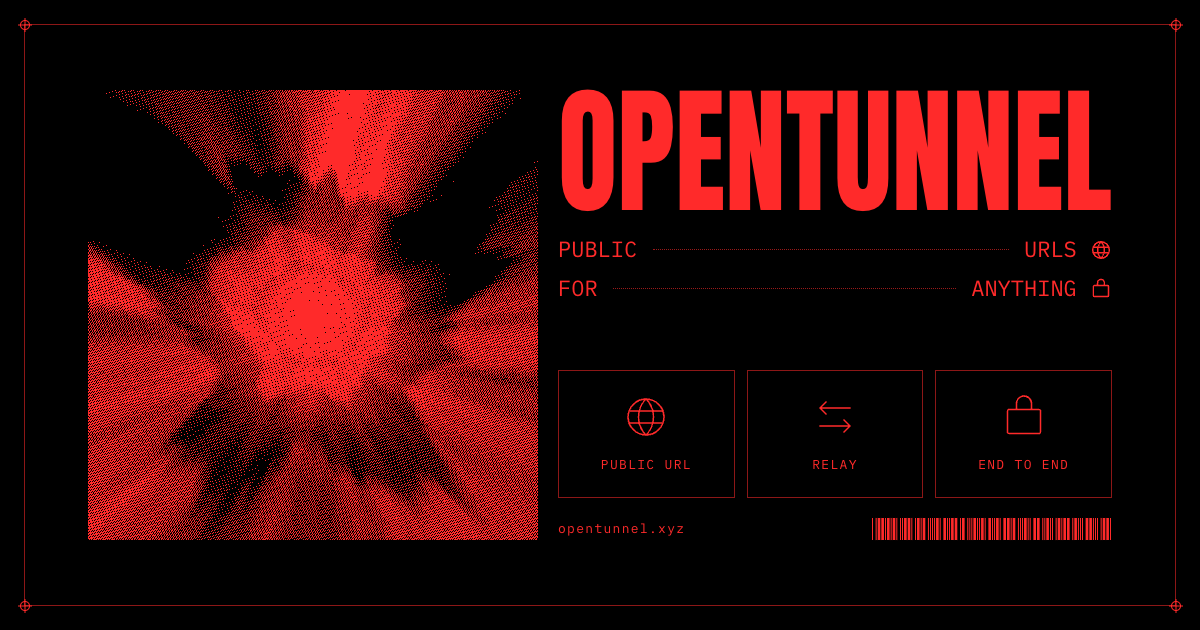
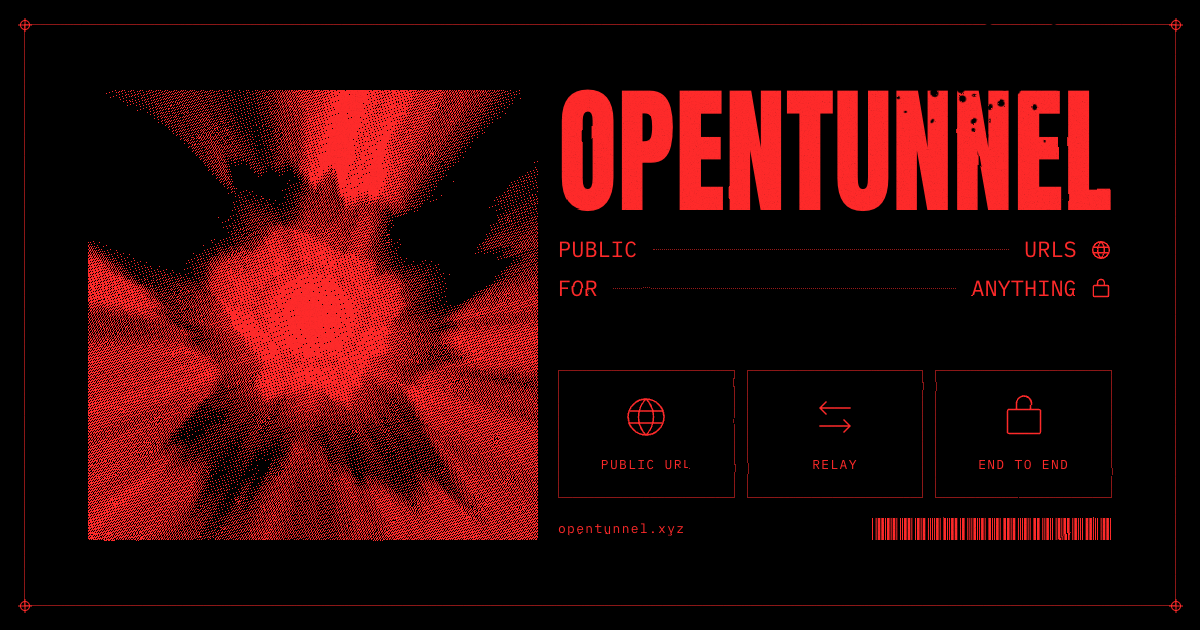
website: the share card takes the ink and the splatter

diff --git a/packages/website/src/OpenGraphCard.tsx b/packages/website/src/OpenGraphCard.tsx
@@ -3,6 +3,8 @@ import { ArrowsLeftRight, Globe, LockSimple } from "@phosphor-icons/react"
 import { TunnelArt } from "./poster/TunnelArt"
 import { Barcode, Crosshair } from "./Micro"
 import { Caption, Wordmark, wordmarkFontSize } from "./wordmark"
+import { Splatter } from "./Splatter"
+import { Ink } from "./Ink"
 import "./OpenGraphCard.css"
 
 declare global {
@@ -19,12 +21,13 @@ export function OpenGraphCard() {
       .then(() => new Promise(resolve => setTimeout(resolve, 600)))
   }, [])
   return <div className="og-card" data-og-card>
+    <Ink />
     <div className="og-frame" aria-hidden="true">
       <Crosshair className="og-reg og-reg-tl" /><Crosshair className="og-reg og-reg-tr" /><Crosshair className="og-reg og-reg-bl" /><Crosshair className="og-reg og-reg-br" />
     </div>
     <div className="og-print"><TunnelArt className="og-canvas" /></div>
     <div className="og-right">
-      <Wordmark className="og-wordmark" />
+      <div className="og-mark"><Wordmark className="og-wordmark" /><Splatter /></div>
       <p className="og-caption"><Caption size={22} /></p>
       <ul className="og-facts">
         <li><Globe size={48} weight="thin" /><b>public url</b></li>

diff --git a/packages/website/src/App.tsx b/packages/website/src/App.tsx
@@ -5,6 +5,7 @@ import { Globe } from "./scenes/Globe"
 import { useTime, useTransform } from "motion/react"
 import { Caption, Wordmark } from "./wordmark"
 import { Justified } from "./Justified"
+import { Ink } from "./Ink"
 import { Splatter } from "./Splatter"
 
 const github = "https://github.com/anomalyco/opentunnel"
@@ -39,19 +40,6 @@ function Masthead() {
 }
 
 const out = (text: string) => <span className="output">{text}</span>
-
-/** The page is printed, not rendered: one static displacement over everything, and grain on top. */
-function Ink() {
-  return <>
-    <svg width="0" height="0" className="ink-defs" aria-hidden="true">
-      <filter id="ink" x="-3%" y="-3%" width="106%" height="106%" colorInterpolationFilters="sRGB">
-        <feTurbulence type="fractalNoise" baseFrequency="0.025 0.0325" numOctaves="2" seed="3" result="n" />
-        <feDisplacementMap in="SourceGraphic" in2="n" scale="1.9" xChannelSelector="R" yChannelSelector="G" />
-      </filter>
-    </svg>
-    <div className="ink-grain" aria-hidden="true" />
-  </>
-}
 
 export function App() {
   return <div className="site">

diff --git a/packages/website/src/OpenGraphCard.css b/packages/website/src/OpenGraphCard.css
@@ -6,7 +6,11 @@
 .og-print { position: relative; aspect-ratio: 1; overflow: hidden; }
 .og-canvas { position: absolute; inset: 0; width: 100%; height: 100%; display: block; image-rendering: pixelated; }
 /* The wordmark, its caption justified to the same width, three squares of facts, and the address on the baseline. */
-.og-right { display: grid; grid-template-rows: auto auto 1fr auto; }
+.og-right { display: grid; grid-template-rows: auto auto 1fr auto; filter: url(#ink); }
+.og-print { filter: url(#ink); }
+/* The spray over the mark, placed as on the page: fractions of the mark's box. */
+.og-mark { position: relative; container-type: inline-size; }
+.og-mark .splatter { width: 54cqw; top: -40%; }
 .og-wordmark { display: block; width: 100%; aspect-ratio: 4.6; color: var(--ink); font-family: var(--font-wordmark), sans-serif; text-transform: none; overflow: visible; }
 .og-caption { margin: 20px 0 0; font-size: 22px; line-height: 1.75; text-transform: uppercase; }
 .og-caption b { display: flex; align-items: center; font-weight: 400; }

diff --git a/packages/website/src/Ink.tsx b/packages/website/src/Ink.tsx
@@ -1,0 +1,13 @@
+/** The page is printed, not rendered: one static displacement over everything, and grain on top. */
+export function Ink() {
+  return <>
+    <svg width="0" height="0" className="ink-defs" aria-hidden="true">
+      <filter id="ink" x="-3%" y="-3%" width="106%" height="106%" colorInterpolationFilters="sRGB">
+        <feTurbulence type="fractalNoise" baseFrequency="0.025 0.0325" numOctaves="2" seed="3" result="n" />
+        <feDisplacementMap in="SourceGraphic" in2="n" scale="1.9" xChannelSelector="R" yChannelSelector="G" />
+      </filter>
+    </svg>
+    <div className="ink-grain" aria-hidden="true" />
+  </>
+}
+
